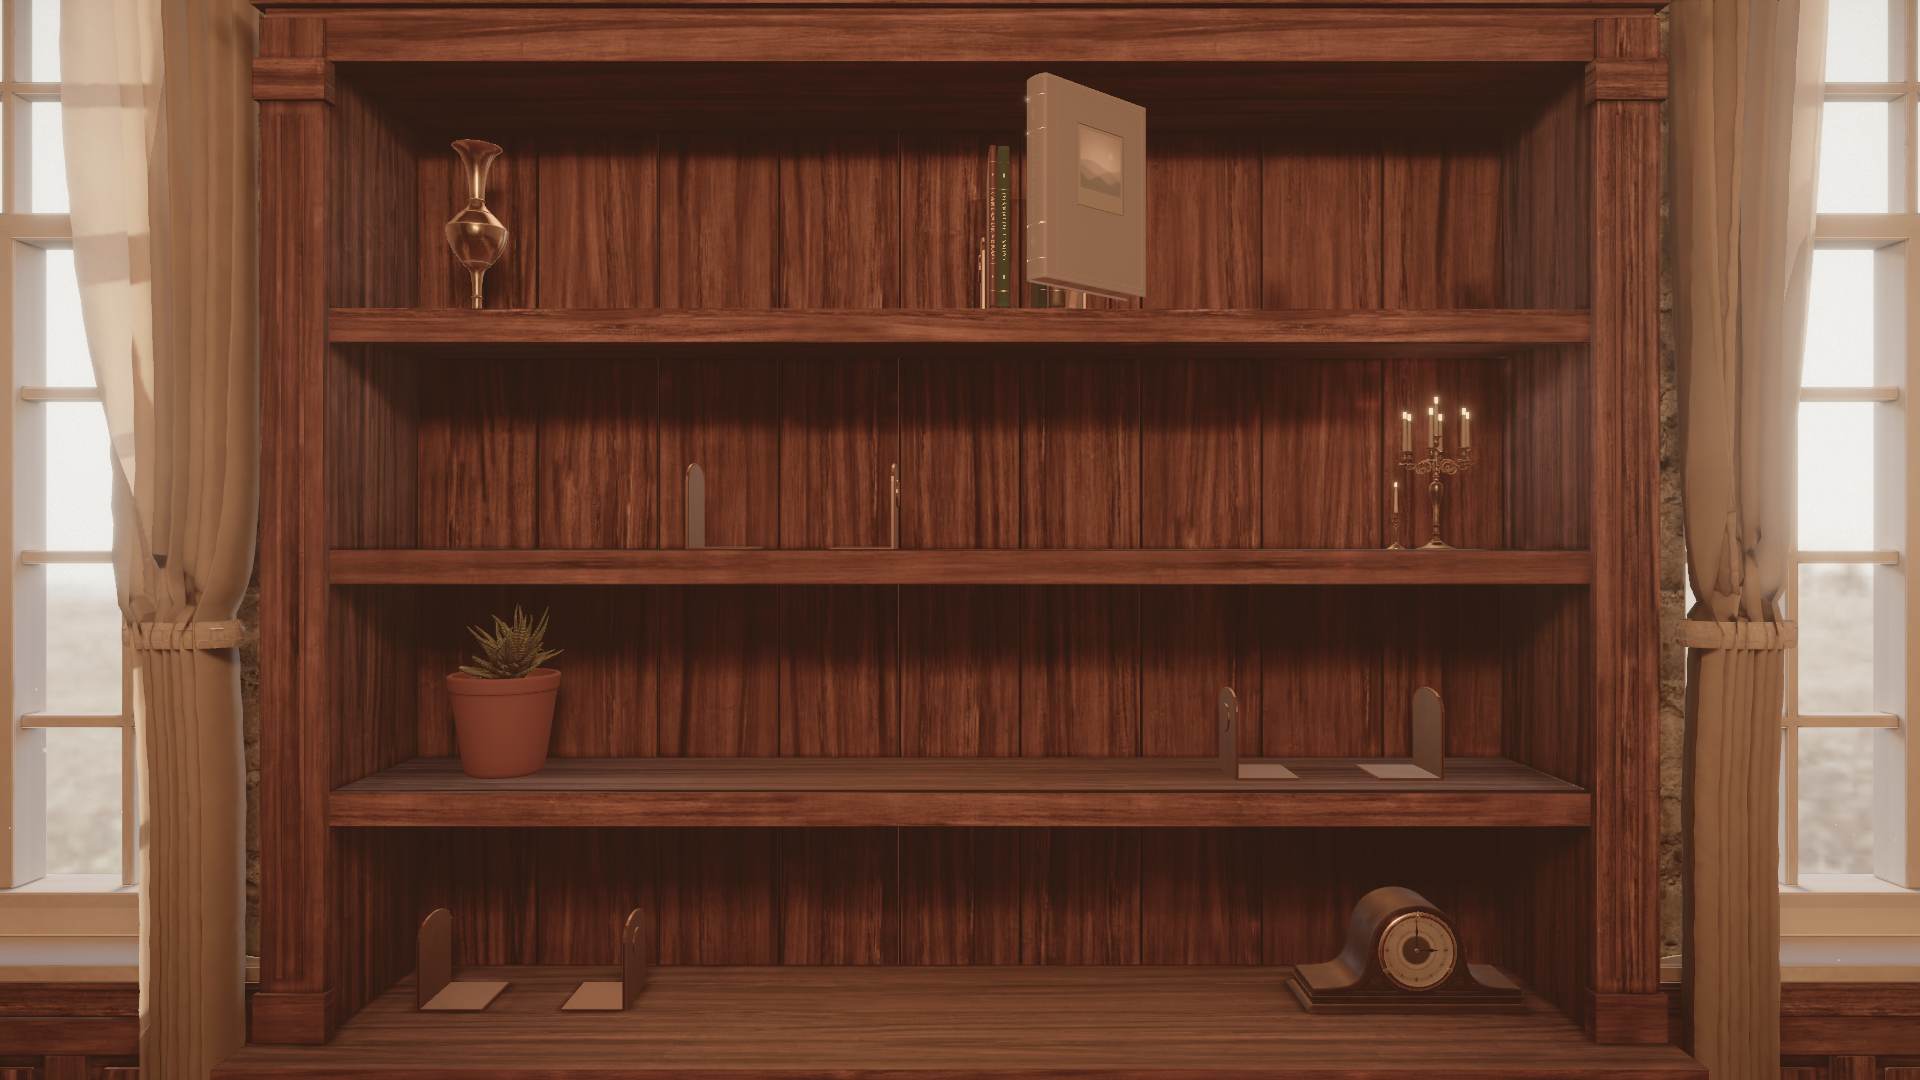
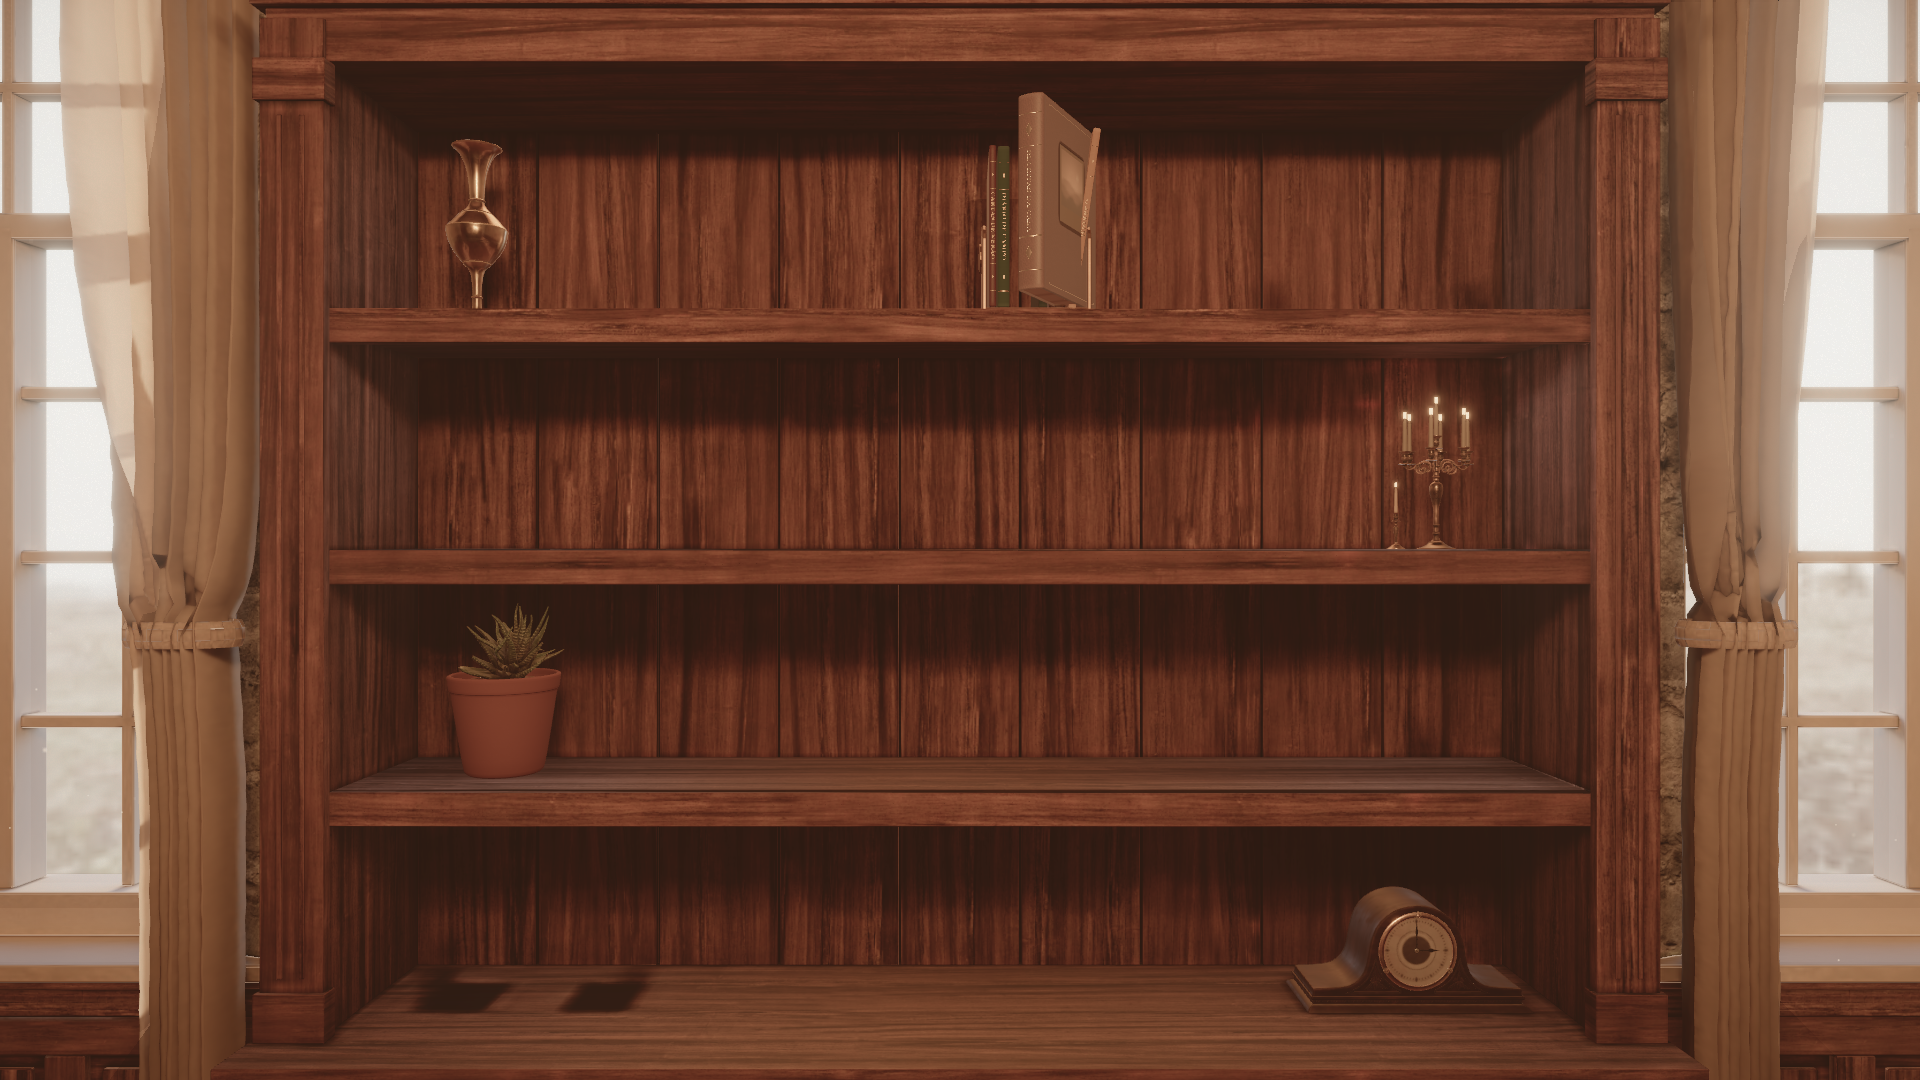
fase 3: pose da seleção apoiada, apoios vazios escondidos

diff --git a/src/book/BookShelf.tsx b/src/book/BookShelf.tsx
@@ -12,7 +12,7 @@ import type { PlacedBook, Shelf } from './shelfLayout'
 import { useSelection } from './useSelection'
 
 const HOVER_PULL = 0.012
-const SELECT_TURN = (-50 * Math.PI) / 180
+const SELECT_TURN = (-28 * Math.PI) / 180
 const SELECT_LIFT = 0
 const BOOKEND_PLATE = 0.1
 const PLATE_THICKNESS = 0.004
@@ -57,7 +57,8 @@ function ShelfBook({ book, place, shelf, lift }: ShelfBookProps) {
     const isSel = s.selected === book.id
     const isHot = !s.selected && (s.hovered === book.id || s.focused === book.id)
     const a = anim.current
-    const pullTarget = isSel ? d.coverWidth * 1.05 : isHot ? HOVER_PULL : 0
+    // the base stays on the board: the book never comes out further than ~70% of its depth
+    const pullTarget = isSel ? d.coverWidth * 0.7 : isHot ? HOVER_PULL : 0
     const before = a.pull + a.turn
     a.pull = approach(a.pull, pullTarget, dt, isSel ? 0.18 : 0.07)
     a.turn = approach(a.turn, isSel ? SELECT_TURN : 0, dt, 0.2)
@@ -75,7 +76,7 @@ function ShelfBook({ book, place, shelf, lift }: ShelfBookProps) {
       inner.current.traverse((o) => {
         const m = (o as Mesh).material as MeshStandardMaterial | undefined
         if (m && 'emissive' in m && m.emissive) {
-          m.emissive.copy(HIGHLIGHT).multiplyScalar((isSel ? 0.12 : 0.06) * a.glow)
+          m.emissive.copy(HIGHLIGHT).multiplyScalar((isSel ? 0.04 : 0.03) * a.glow)
         }
       })
     }

diff --git a/src/scene/ShelfProps.tsx b/src/scene/ShelfProps.tsx
@@ -46,7 +46,10 @@ export function ShelfProps() {
       if (p.kind === 'bookend_pair') {
         const end = p.endX ?? p.x
         const center = (p.x + end) / 2
-        node.position.set(center, shelf.y, node.position.z)
+        const holdsBooks = layout.books.some((b) => b.shelf === p.shelf)
+        // empty pairs read as forgotten on a bare shelf; the pair holding a row comes forward with the books
+        node.visible = holdsBooks
+        node.position.set(center, shelf.y, holdsBooks ? shelf.zFront - 0.07 : node.position.z)
         node.getObjectByName(`prop_${p.kind}_${i}_l`)?.position.setX(p.x - center)
         node.getObjectByName(`prop_${p.kind}_${i}_r`)?.position.setX(end - center)
       } else {

diff --git a/docs/look-dev/iteracoes.md b/docs/look-dev/iteracoes.md
@@ -66,3 +66,15 @@ Cada entrada: data/hora, o que mudou, notas por critério (art-reviewer), diverg
 - Madeira mais âmbar e menos contrastada, balanço de branco anti-magenta, lustre 0,25 m mais baixo (maior no quadro), latão dos props mais reflexivo, cúpulas do lustre em vidro âmbar escuro.
 - **art-reviewer (S10, bake final): 4 · 4 · 4 · 4 · 4 — "pronto para o usuário"** como candidata à aprovação da Fase 0.
 - Pendências pós-aprovação: cúpulas do lustre (porcelana do asset Chandelier_03, assada no lightmap — separar o material no Blender); faixa fria no rodapé do fundo; franja do tapete muito contrastada; veio repetido no fundo da estante; reflexo próprio das janelas na metade de trás do piso; vestíbulo escuro nas laterais e escrivaninha cortada no N0.
+
+## Fase 3 — livros na estante e seleção
+
+### E1 — 2026-10-15
+- Os 6 livros de teste na prateleira de cima (`shelfLayout.ts`), com o par de apoios de latão fechando a fileira e o último livro inclinado; seleção desliza o livro para fora e gira a capa; painel HTML de descrição.
+- **art-reviewer:** assentamento 2 · lombadas 2 · luz 3 · gesto 2 — livro inclinado sem apoio, fileira no canto, sem sombra de contato, seleção pouco legível.
+
+### E2
+- Fileira centralizada no vão, livro inclinado encostado no apoio na altura dele, sombras de contato (prateleira + fundo), seleção maior. **art-reviewer:** 3 · 3 · 3 · 2 — seleção flutuando e capa lavada; apoios vazios nas outras prateleiras.
+
+### E3
+- Seleção 0,7× a largura e 28° (base apoiada), realce 3–4%, apoios só na prateleira com livros e trazidos para a frente.

diff --git a/docs/decisoes.md b/docs/decisoes.md
@@ -201,3 +201,9 @@ Formato de cada entrada:
 - Contexto: CLAUDE.md lista "2. Estante + livros de teste" e "3. Seleção, destaque e descrição"; a Fase 2 (livro paramétrico) foi feita em cena isolada porque o livro não podia entrar na sala antes da aprovação. O usuário pediu "Fase 3 (livros na estante)".
 - Escolha: integrar os 6 livros de teste na estante com `shelfLayout.ts` (fecha a Fase 2) e implementar a seleção, o destaque e a descrição (Fase 3). Spec escrita em `docs/specs/fase-3-selecao.md` a partir do CLAUDE.md.
 - Precisa do usuário? não.
+
+## 2026-10-15 — Fase 3: pares de apoios vazios escondidos; pose da seleção
+- Contexto: `art-reviewer` (2ª revisão da Fase 3) — pares de apoios sem livros nas prateleiras de baixo parecem esquecidos; o livro selecionado flutuava à frente da prateleira (avanço de 20 cm > profundidade do livro) e o realce lavava a capa.
+- Escolha: apoios só aparecem nas prateleiras com livros (o par da fileira vem para a frente, junto das lombadas); seleção avança 0,7× a largura do livro e gira 28° (spec: ~0,6× e ~20°); realce 3–4%.
+- Como reverter: `src/scene/ShelfProps.tsx`, constantes em `src/book/BookShelf.tsx`.
+- Precisa do usuário? não.
